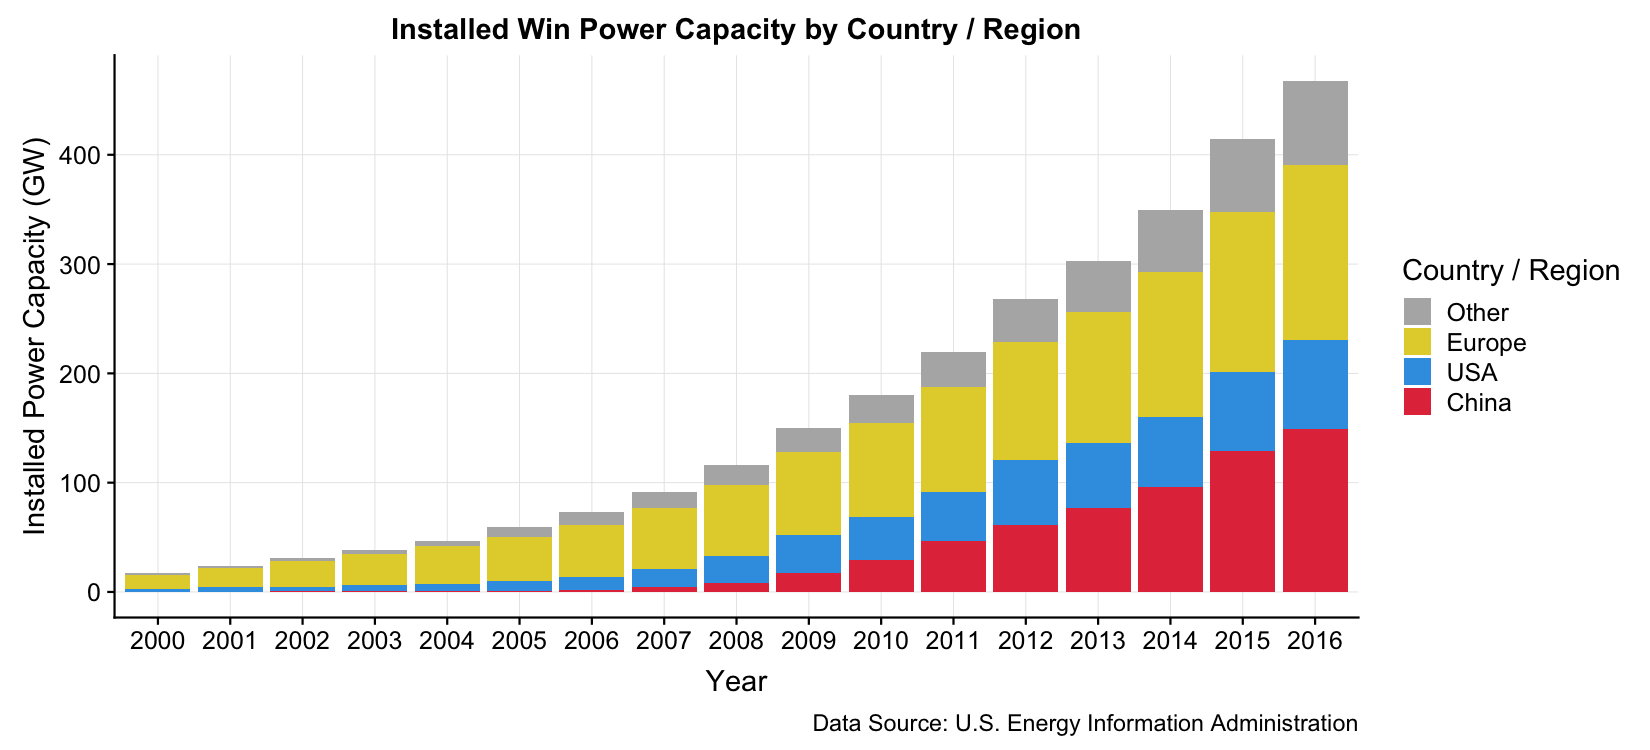
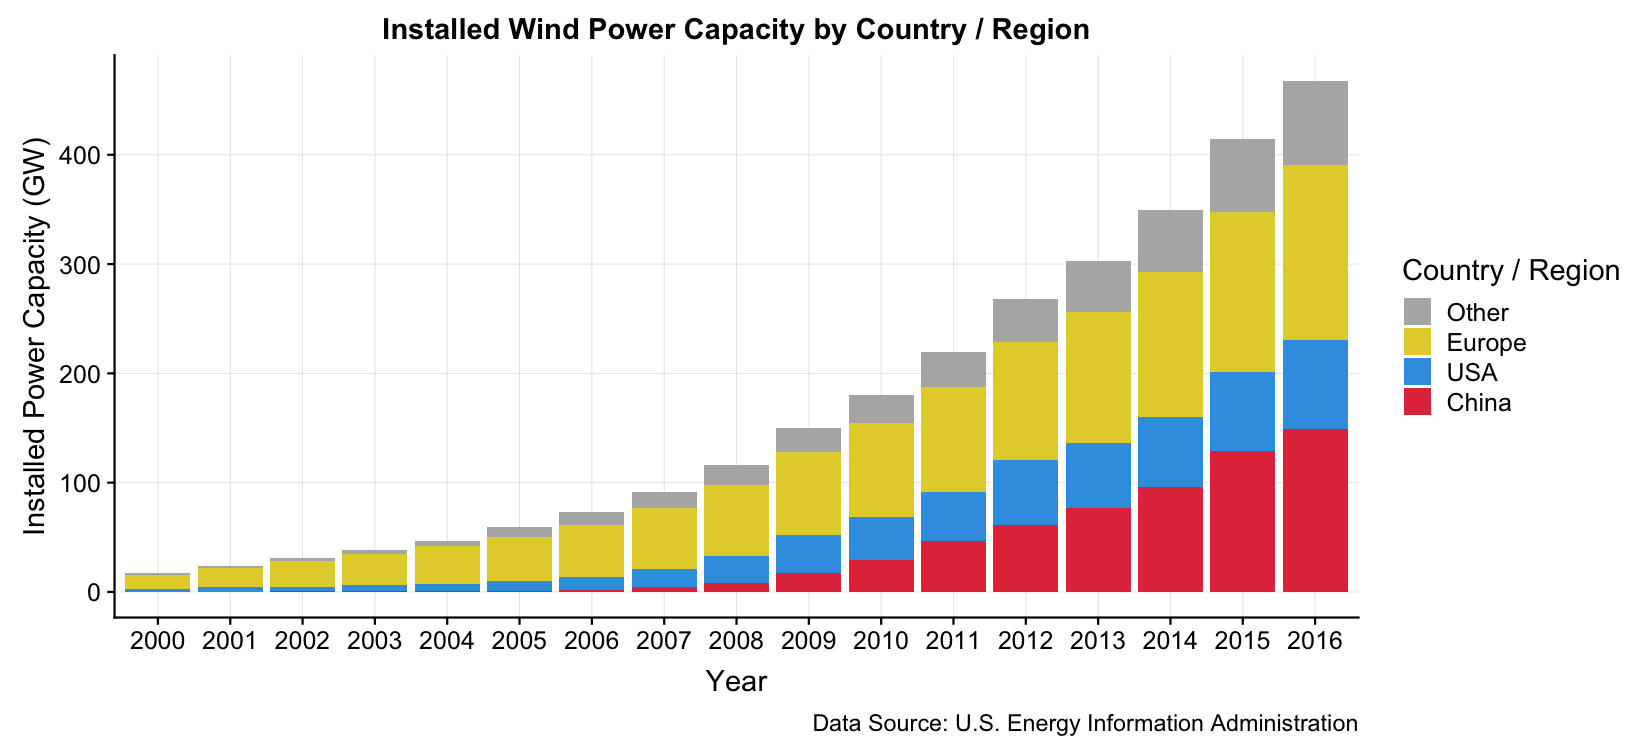
Readme update

Changed region(s): [[0.2164, 0.0, 0.68, 0.0613]]

diff --git a/README.md b/README.md
@@ -8,6 +8,7 @@ A repo of reproducible charts
   - [climateChangeBarcode](#climateChangeBarcode)
   - [solarPvProduction](#solarPvProduction)
   - [newEnergyInvestment](#newEnergyInvestment)
+  - [electricityEIA](#electricityEIA)
 
 ## climateChangeBarcode
 
@@ -39,6 +40,16 @@ Barplots of new clean energy investment by country and type.
 2018*
 
 <img src="./newEnergyInvestment/plots/facetPlot.png" alt="newEnergyInvestment" width="600"/>
+
+## electricityEIA
+
+Barplots of energy capacity and generation by country / region using EIA
+data.
+
+*Installed Wind Power Capacity by Country / Region, 2000 -
+2016*
+
+<img src="./electricityEIA/plots/windCapacity.png" alt="electricityEIA" width="600"/>
 
 # Author and License
 
